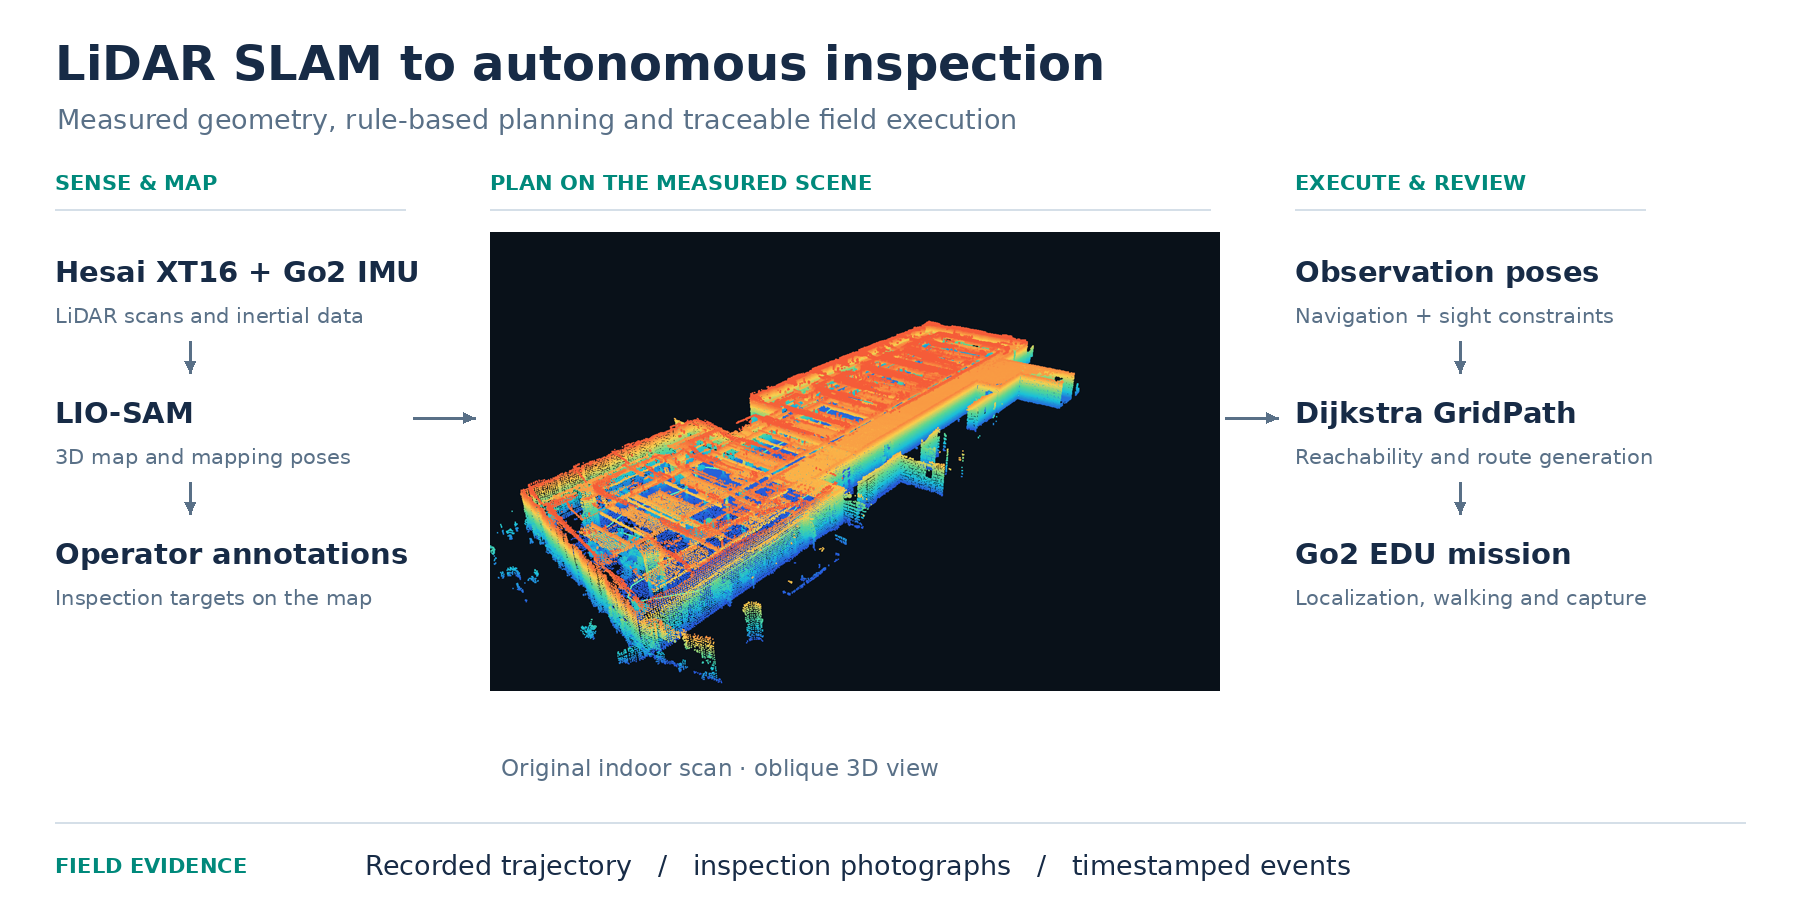
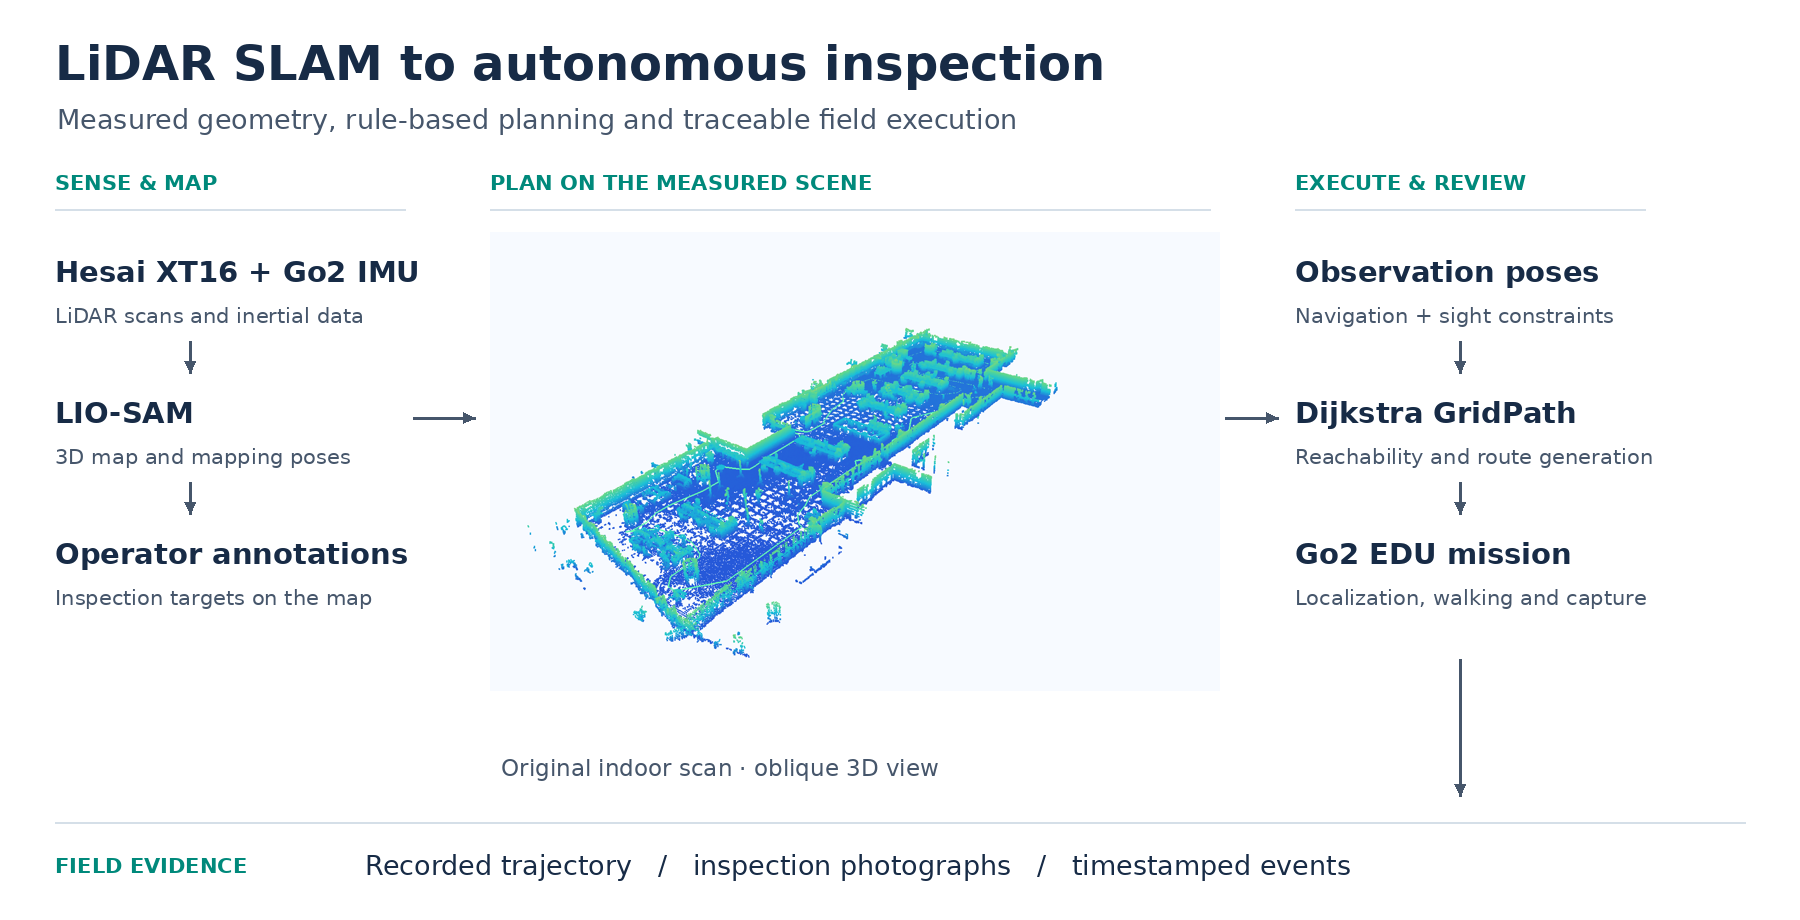
Refine cutaway scene and exploded planning layers after visual review

diff --git a/docs/visual-comparison.md b/docs/visual-comparison.md
@@ -13,3 +13,10 @@
 The original point positions are height-colored and viewed from oblique cameras. Left and right columns compare 35° and 65° camera elevations. These are visualization candidates from the original localization maps.
 
 ![3D candidates](../assets/scene-render-comparison.jpg)
+
+## Second round
+
+The architecture uses a common light background and a roof cutaway. The two layers have more separation, physical obstacle examples, and an explicit grid pitch. The measured scene views below use 35° oblique cameras, display-only sparse-cell filtering and per-scene height colors.
+
+![Indoor cutaway](../assets/indoor-scene-3d.png)
+![Outdoor scene](../assets/outdoor-scene-3d.png)
